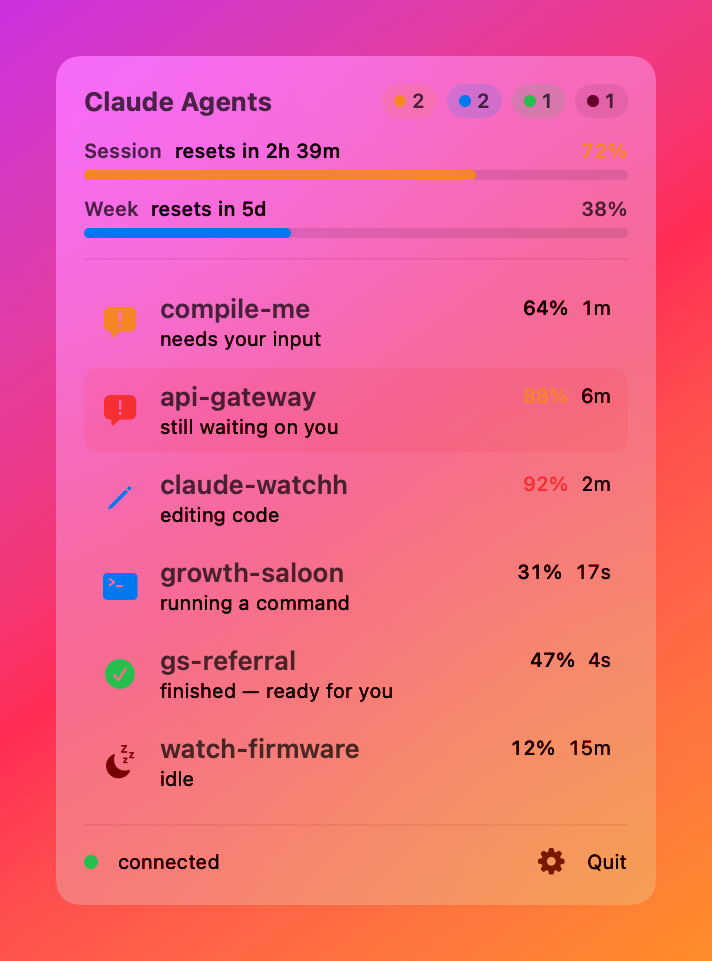
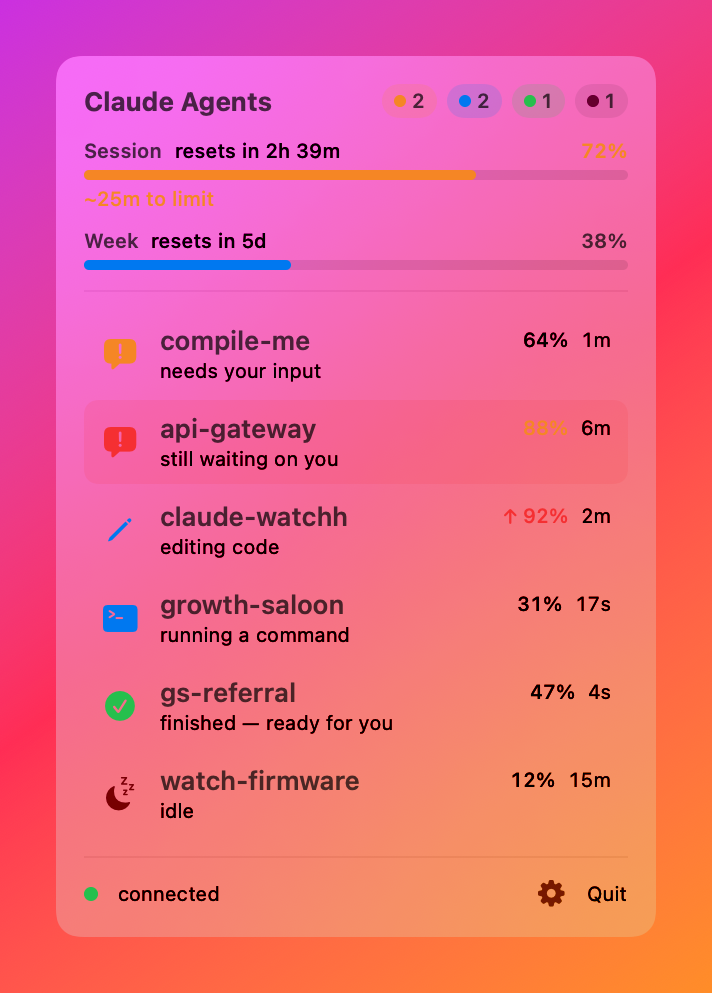
feat: burn-rate ETA + per-chat context trend
- daemon tracks 5h-window % samples -> projects seconds-to-limit (eta_seconds),
  reset on window rollover; context trend (up/down) per chat
- session gauge shows '~25m to limit'; rows show a rising-context arrow
- etaToLimit() formatter + tests (54 tests green)

diff --git a/macapp/Sources/ClaudeWatchBar/PanelView.swift b/macapp/Sources/ClaudeWatchBar/PanelView.swift
@@ -97,10 +97,21 @@ struct AgentRow: View {
                         .lineLimit(1)
                     Spacer(minLength: 6)
                     if let pct = agent.contextPct {
-                        Text("\(pct)%")
-                            .font(.caption2.monospacedDigit())
-                            .foregroundStyle(usageTier(pct) == .normal ? .secondary : usageTier(pct).color)
-                            .help("context: \(agent.contextTokens ?? 0) of \(agent.contextSize ?? 0) tokens")
+                        HStack(spacing: 2) {
+                            if agent.contextTrend == "up", pct >= 70 {
+                                Image(systemName: "arrow.up")
+                                    .font(.system(size: 8, weight: .bold))
+                                    .foregroundStyle(usageTier(pct).color)
+                            } else if agent.contextTrend == "down" {
+                                Image(systemName: "arrow.down")
+                                    .font(.system(size: 8, weight: .bold))
+                                    .foregroundStyle(.secondary)
+                            }
+                            Text("\(pct)%")
+                                .font(.caption2.monospacedDigit())
+                                .foregroundStyle(usageTier(pct) == .normal ? .secondary : usageTier(pct).color)
+                        }
+                        .help("context: \(agent.contextTokens ?? 0) of \(agent.contextSize ?? 0) tokens")
                     }
                     if hovered && canFocus {
                         Image(systemName: "arrow.up.forward.app.fill")

diff --git a/macapp/Sources/ClaudeWatchKit/StatusDTO.swift b/macapp/Sources/ClaudeWatchKit/StatusDTO.swift
@@ -40,12 +40,13 @@ public struct Agent: Codable, Equatable, Sendable, Identifiable {
     public let contextPct: Int?
     public let contextTokens: Int?
     public let contextSize: Int?
+    public let contextTrend: String?
 
     public init(id: String = "", project: String, state: Int, ageSeconds: Double,
                 tool: String? = nil, term: String? = nil, tty: String? = nil,
                 cwd: String? = nil, waitingSeconds: Double? = nil,
                 contextPct: Int? = nil, contextTokens: Int? = nil,
-                contextSize: Int? = nil) {
+                contextSize: Int? = nil, contextTrend: String? = nil) {
         self.id = id
         self.project = project
         self.state = state
@@ -58,6 +59,7 @@ public struct Agent: Codable, Equatable, Sendable, Identifiable {
         self.contextPct = contextPct
         self.contextTokens = contextTokens
         self.contextSize = contextSize
+        self.contextTrend = contextTrend
     }
 
     public var agentState: AgentState { AgentState(rawValue: state) ?? .idle }
@@ -66,10 +68,12 @@ public struct Agent: Codable, Equatable, Sendable, Identifiable {
 public struct LimitWindow: Codable, Equatable, Sendable {
     public let usedPercentage: Int
     public let resetsAt: Double
+    public let etaSeconds: Double?
 
-    public init(usedPercentage: Int, resetsAt: Double) {
+    public init(usedPercentage: Int, resetsAt: Double, etaSeconds: Double? = nil) {
         self.usedPercentage = usedPercentage
         self.resetsAt = resetsAt
+        self.etaSeconds = etaSeconds
     }
 }
 

diff --git a/macapp/Sources/ClaudeWatchKit/Usage.swift b/macapp/Sources/ClaudeWatchKit/Usage.swift
@@ -24,3 +24,11 @@ public func resetCountdown(resetsAt: Double, now: Double) -> String {
     }
     return "resets in \(hours / 24)d"
 }
+
+/// "~25m to limit" / "~1h 10m to limit" — the burn-rate projection.
+public func etaToLimit(_ seconds: Double) -> String {
+    let mins = max(1, Int(seconds / 60))
+    if mins < 60 { return "~\(mins)m to limit" }
+    let h = mins / 60, m = mins % 60
+    return m > 0 ? "~\(h)h \(m)m to limit" : "~\(h)h to limit"
+}

diff --git a/macapp/Tests/ClaudeWatchKitTests/UsageTests.swift b/macapp/Tests/ClaudeWatchKitTests/UsageTests.swift
@@ -20,6 +20,13 @@ final class UsageTests: XCTestCase {
         XCTAssertEqual(resetCountdown(resetsAt: 0, now: 100), "resets now")
     }
 
+    func testEtaToLimit() {
+        XCTAssertEqual(etaToLimit(1200), "~20m to limit")
+        XCTAssertEqual(etaToLimit(4200), "~1h 10m to limit")
+        XCTAssertEqual(etaToLimit(3600), "~1h to limit")
+        XCTAssertEqual(etaToLimit(20), "~1m to limit")
+    }
+
     func testDecodeStatusWithLimitsAndContext() throws {
         let json = """
         {"counts":{"needs_input":0,"running":1,"done":0,"idle":0},

diff --git a/macapp/Sources/ClaudeWatchBar/UsageSummaryView.swift b/macapp/Sources/ClaudeWatchBar/UsageSummaryView.swift
@@ -35,6 +35,12 @@ struct UsageSummaryView: View {
                 }
             }
             .frame(height: 5)
+            if let eta = window.etaSeconds {
+                Text(etaToLimit(eta))
+                    .font(.caption2.weight(.medium))
+                    .foregroundStyle(tier == .normal ? Color.secondary : tier.color)
+                    .frame(maxWidth: .infinity, alignment: .leading)
+            }
         }
     }
 }

diff --git a/macapp/Sources/ClaudeWatchBar/Snapshot.swift b/macapp/Sources/ClaudeWatchBar/Snapshot.swift
@@ -19,7 +19,7 @@ enum Snapshot {
                       tool: "Edit", term: "Apple_Terminal", tty: "/dev/ttys006",
                       waitingSeconds: 410, contextPct: 88),
                 Agent(id: "b", project: "claude-watchh", state: 1, ageSeconds: 142,
-                      tool: "Edit", term: "vscode", contextPct: 92),
+                      tool: "Edit", term: "vscode", contextPct: 92, contextTrend: "up"),
                 Agent(id: "c", project: "growth-saloon", state: 1, ageSeconds: 17,
                       tool: "Bash", term: "iTerm.app", contextPct: 31),
                 Agent(id: "d", project: "gs-referral", state: 2, ageSeconds: 4,
@@ -28,7 +28,8 @@ enum Snapshot {
                       tool: "Grep", contextPct: 12),
             ],
             limits: Limits(
-                fiveHour: LimitWindow(usedPercentage: 72, resetsAt: now + 9600),
+                fiveHour: LimitWindow(usedPercentage: 72, resetsAt: now + 9600,
+                                      etaSeconds: 1500),
                 sevenDay: LimitWindow(usedPercentage: 38, resetsAt: now + 6 * 86400)
             )
         )

diff --git a/daemon/tests/test_aggregator.py b/daemon/tests/test_aggregator.py
@@ -110,7 +110,8 @@ def test_update_usage_and_status_limits():
     assert a["context_pct"] == 35
     assert a["context_tokens"] == 351590
     assert a["context_size"] == 1000000
-    assert st["limits"]["five_hour"] == {"used_percentage": 38, "resets_at": 1781798400}
+    assert st["limits"]["five_hour"]["used_percentage"] == 38
+    assert st["limits"]["five_hour"]["resets_at"] == 1781798400
     assert st["limits"]["seven_day"]["used_percentage"] == 5
 
 
@@ -120,6 +121,50 @@ def test_status_without_usage_is_null():
     st = r.status(now=1.0)
     assert st["agents"][0]["context_pct"] is None
     assert st["limits"] is None
+
+
+def test_context_trend():
+    r = SessionRegistry()
+    r.update("s1", "p", "running", now=1.0)
+    r.update_usage("s1", now=1.0, context_pct=40)
+    assert r.status(now=1.0)["agents"][0]["context_trend"] is None  # first sample
+    r.update_usage("s1", now=2.0, context_pct=55)
+    assert r.status(now=2.0)["agents"][0]["context_trend"] == "up"
+    r.update_usage("s1", now=3.0, context_pct=20)  # /compact
+    assert r.status(now=3.0)["agents"][0]["context_trend"] == "down"
+
+
+def test_session_eta_from_rising_samples():
+    r = SessionRegistry()
+    r.update("s1", "p", "running", now=0.0)
+    # 50% -> 60% over 300s => 0.0333%/s; ETA to 100 = 40/0.0333 = 1200s
+    r.update_usage("s1", now=0.0, context_pct=10,
+                   five_hour={"used_percentage": 50, "resets_at": 9999})
+    r.update_usage("s1", now=300.0, context_pct=10,
+                   five_hour={"used_percentage": 60, "resets_at": 9999})
+    fh = r.status(now=300.0)["limits"]["five_hour"]
+    assert fh["eta_seconds"] is not None
+    assert 1100 <= fh["eta_seconds"] <= 1300
+
+
+def test_session_eta_none_when_flat_or_too_short():
+    r = SessionRegistry()
+    r.update("s1", "p", "running", now=0.0)
+    r.update_usage("s1", now=0.0, five_hour={"used_percentage": 50, "resets_at": 1})
+    # only one sample -> no eta
+    assert r.status(now=0.0)["limits"]["five_hour"]["eta_seconds"] is None
+    # flat over time -> no eta
+    r.update_usage("s1", now=300.0, five_hour={"used_percentage": 50, "resets_at": 1})
+    assert r.status(now=300.0)["limits"]["five_hour"]["eta_seconds"] is None
+
+
+def test_window_reset_clears_eta_history():
+    r = SessionRegistry()
+    r.update("s1", "p", "running", now=0.0)
+    r.update_usage("s1", now=0.0, five_hour={"used_percentage": 50, "resets_at": 1})
+    r.update_usage("s1", now=300.0, five_hour={"used_percentage": 90, "resets_at": 2})  # new window
+    # history reset -> single sample in new window -> no eta
+    assert r.status(now=300.0)["limits"]["five_hour"]["eta_seconds"] is None
 
 
 def test_gc_drops_stale_usage():

diff --git a/daemon/aggregator.py b/daemon/aggregator.py
@@ -21,6 +21,9 @@ class SessionRegistry:
         self._usage = {}
         # account-global rate limits (latest status-line report wins), or None
         self._limits = None
+        # (timestamp, session_pct) samples for the current 5h window, for ETA
+        self._sess_samples = []
+        self._sess_window = None  # resets_at of the window the samples belong to
 
     def update(self, session_id, project, event, now,
                tool=None, term=None, tty=None, cwd=None):
@@ -79,10 +82,16 @@ class SessionRegistry:
     def update_usage(self, session_id, now, context_pct=None,
                      context_tokens=None, context_size=None,
                      five_hour=None, seven_day=None):
+        # Context trend: compare against the previous reading for this session.
+        prev = self._usage.get(session_id, {}).get("context_pct")
+        trend = None
+        if prev is not None and context_pct is not None:
+            trend = "up" if context_pct > prev else "down" if context_pct < prev else "flat"
         self._usage[session_id] = {
             "context_pct": context_pct,
             "context_tokens": context_tokens,
             "context_size": context_size,
+            "context_trend": trend,
             "last_seen": now,
         }
         # Rate limits are account-global; the most recent report wins.
@@ -92,6 +101,30 @@ class SessionRegistry:
                 "seven_day": seven_day,
                 "updated_at": now,
             }
+        # Track 5h-window % samples for the burn-rate ETA, scoped to the
+        # current window (reset when the window rolls over).
+        if five_hour and five_hour.get("used_percentage") is not None:
+            ra = five_hour.get("resets_at")
+            if ra != self._sess_window:
+                self._sess_window = ra
+                self._sess_samples = []
+            self._sess_samples.append((now, five_hour["used_percentage"]))
+            cutoff = now - 1800  # keep last 30 min
+            self._sess_samples = [(t, p) for t, p in self._sess_samples if t >= cutoff]
+
+    def _session_eta(self, now):
+        """Seconds until the 5h window hits 100% at the recent rate, or None."""
+        s = self._sess_samples
+        if len(s) < 2:
+            return None
+        (t0, p0), (t1, p1) = s[0], s[-1]
+        span = t1 - t0
+        if span < 120:           # need a couple minutes of signal
+            return None
+        rate = (p1 - p0) / span  # %/sec
+        if rate <= 0 or p1 >= 100:
+            return None
+        return round((100 - p1) / rate)
 
     def status(self, now):
         counts = {IDLE: 0, RUNNING: 0, DONE: 0, NEEDS_INPUT: 0}
@@ -102,6 +135,13 @@ class SessionRegistry:
             key=lambda kv: (kv[1]["state"], kv[1]["last_seen"]),
             reverse=True,
         )
+        limits = self._limits
+        if limits and limits.get("five_hour"):
+            limits = dict(limits)
+            fh = dict(limits["five_hour"])
+            fh["eta_seconds"] = self._session_eta(now)
+            limits["five_hour"] = fh
+
         return {
             "counts": {
                 "needs_input": counts[NEEDS_INPUT],
@@ -109,7 +149,7 @@ class SessionRegistry:
                 "done": counts[DONE],
                 "idle": counts[IDLE],
             },
-            "limits": self._limits,
+            "limits": limits,
             "agents": [
                 {
                     "id": sid,
@@ -125,6 +165,7 @@ class SessionRegistry:
                     "context_pct": self._usage.get(sid, {}).get("context_pct"),
                     "context_tokens": self._usage.get(sid, {}).get("context_tokens"),
                     "context_size": self._usage.get(sid, {}).get("context_size"),
+                    "context_trend": self._usage.get(sid, {}).get("context_trend"),
                 }
                 for sid, s in ordered
             ],

diff --git a/daemon/tests/test_events.py b/daemon/tests/test_events.py
@@ -28,7 +28,8 @@ def test_handle_usage_body_stores_context_and_limits():
     handle_usage_body(r, raw, now=2.0)
     st = r.status(now=2.0)
     assert st["agents"][0]["context_pct"] == 35
-    assert st["limits"]["five_hour"] == {"used_percentage": 38, "resets_at": 1781798400}
+    assert st["limits"]["five_hour"]["used_percentage"] == 38
+    assert st["limits"]["five_hour"]["resets_at"] == 1781798400
     assert st["limits"]["seven_day"]["used_percentage"] == 5
 
 